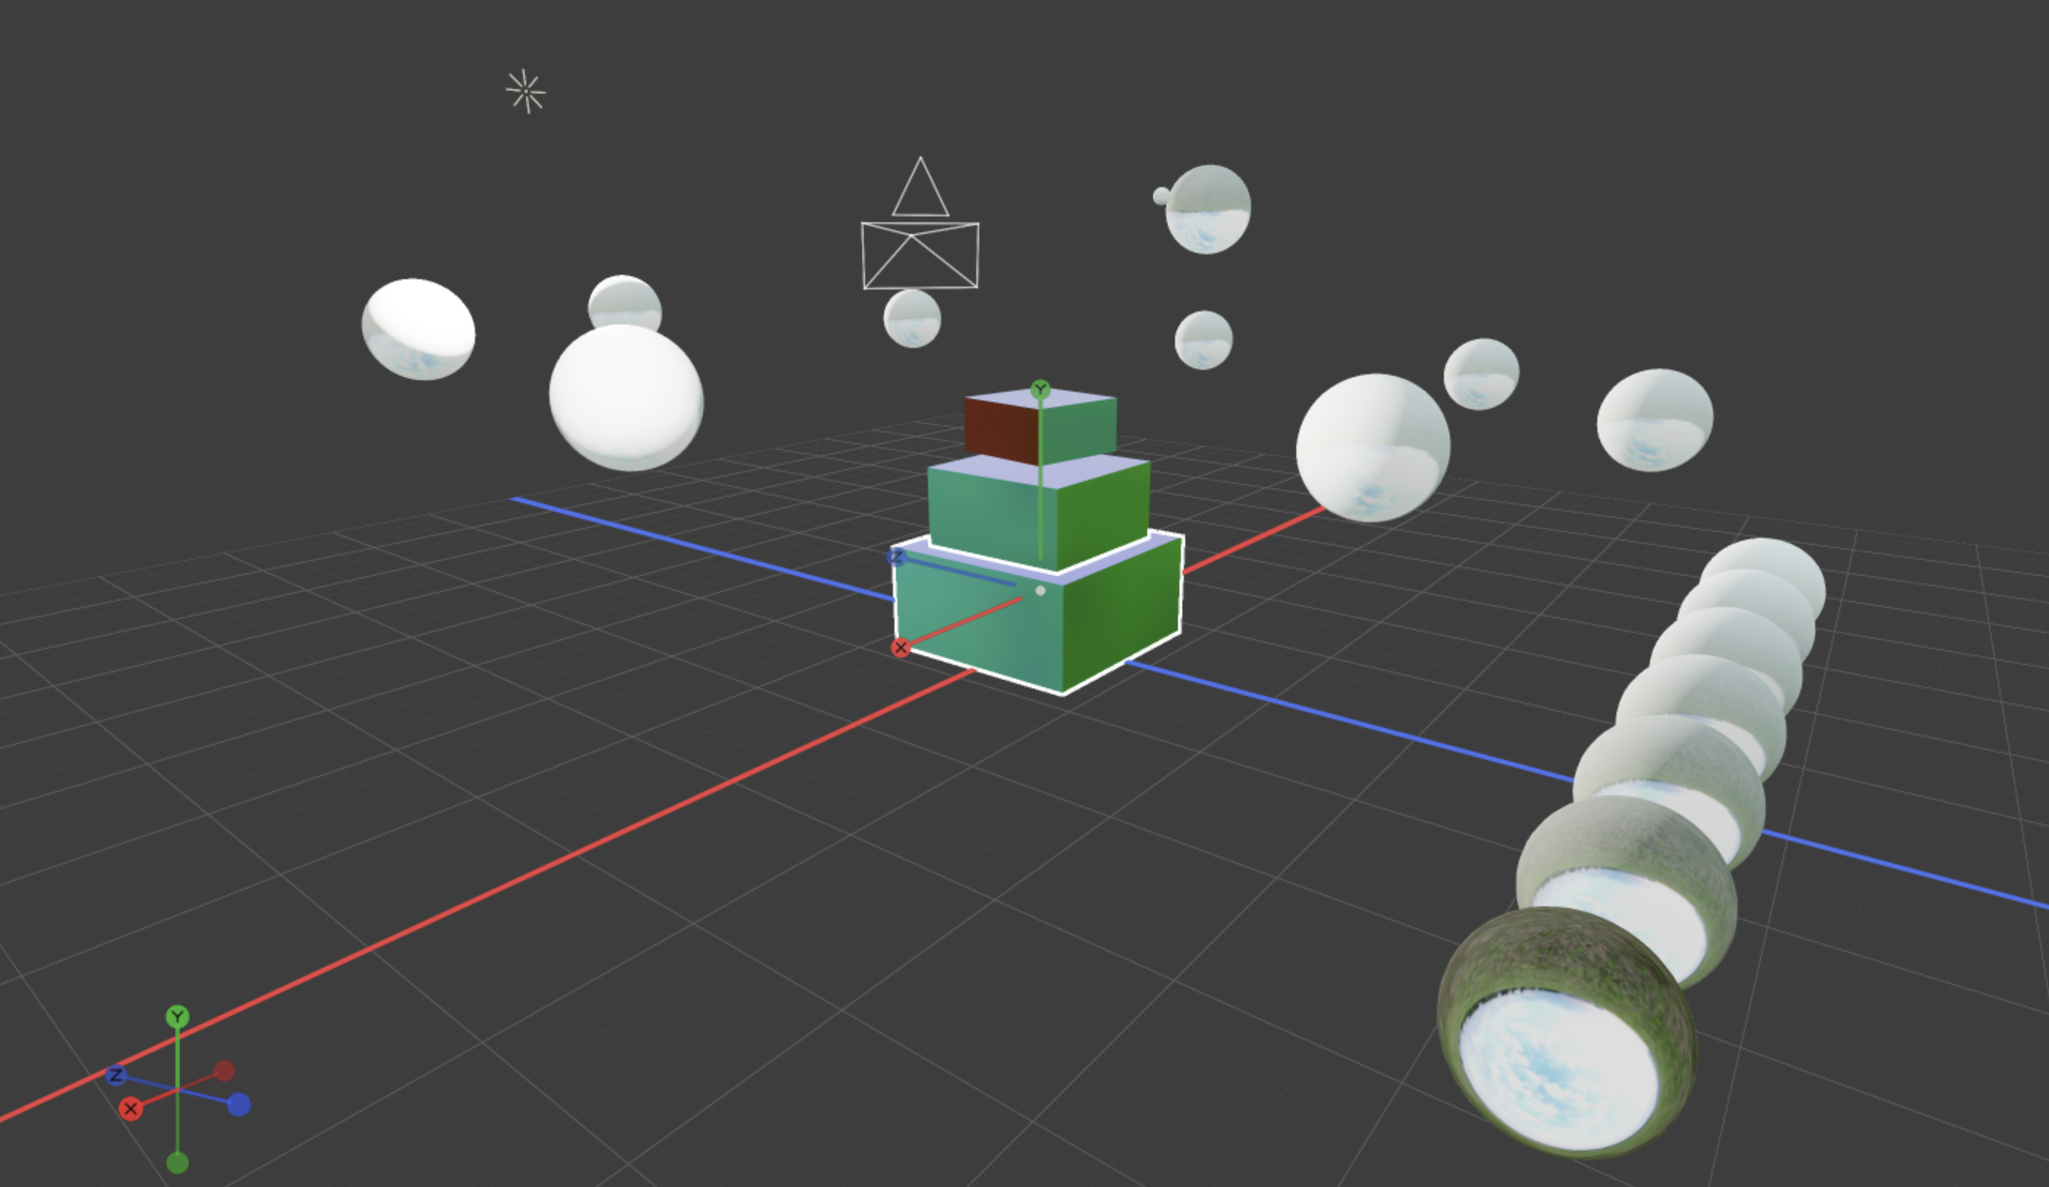
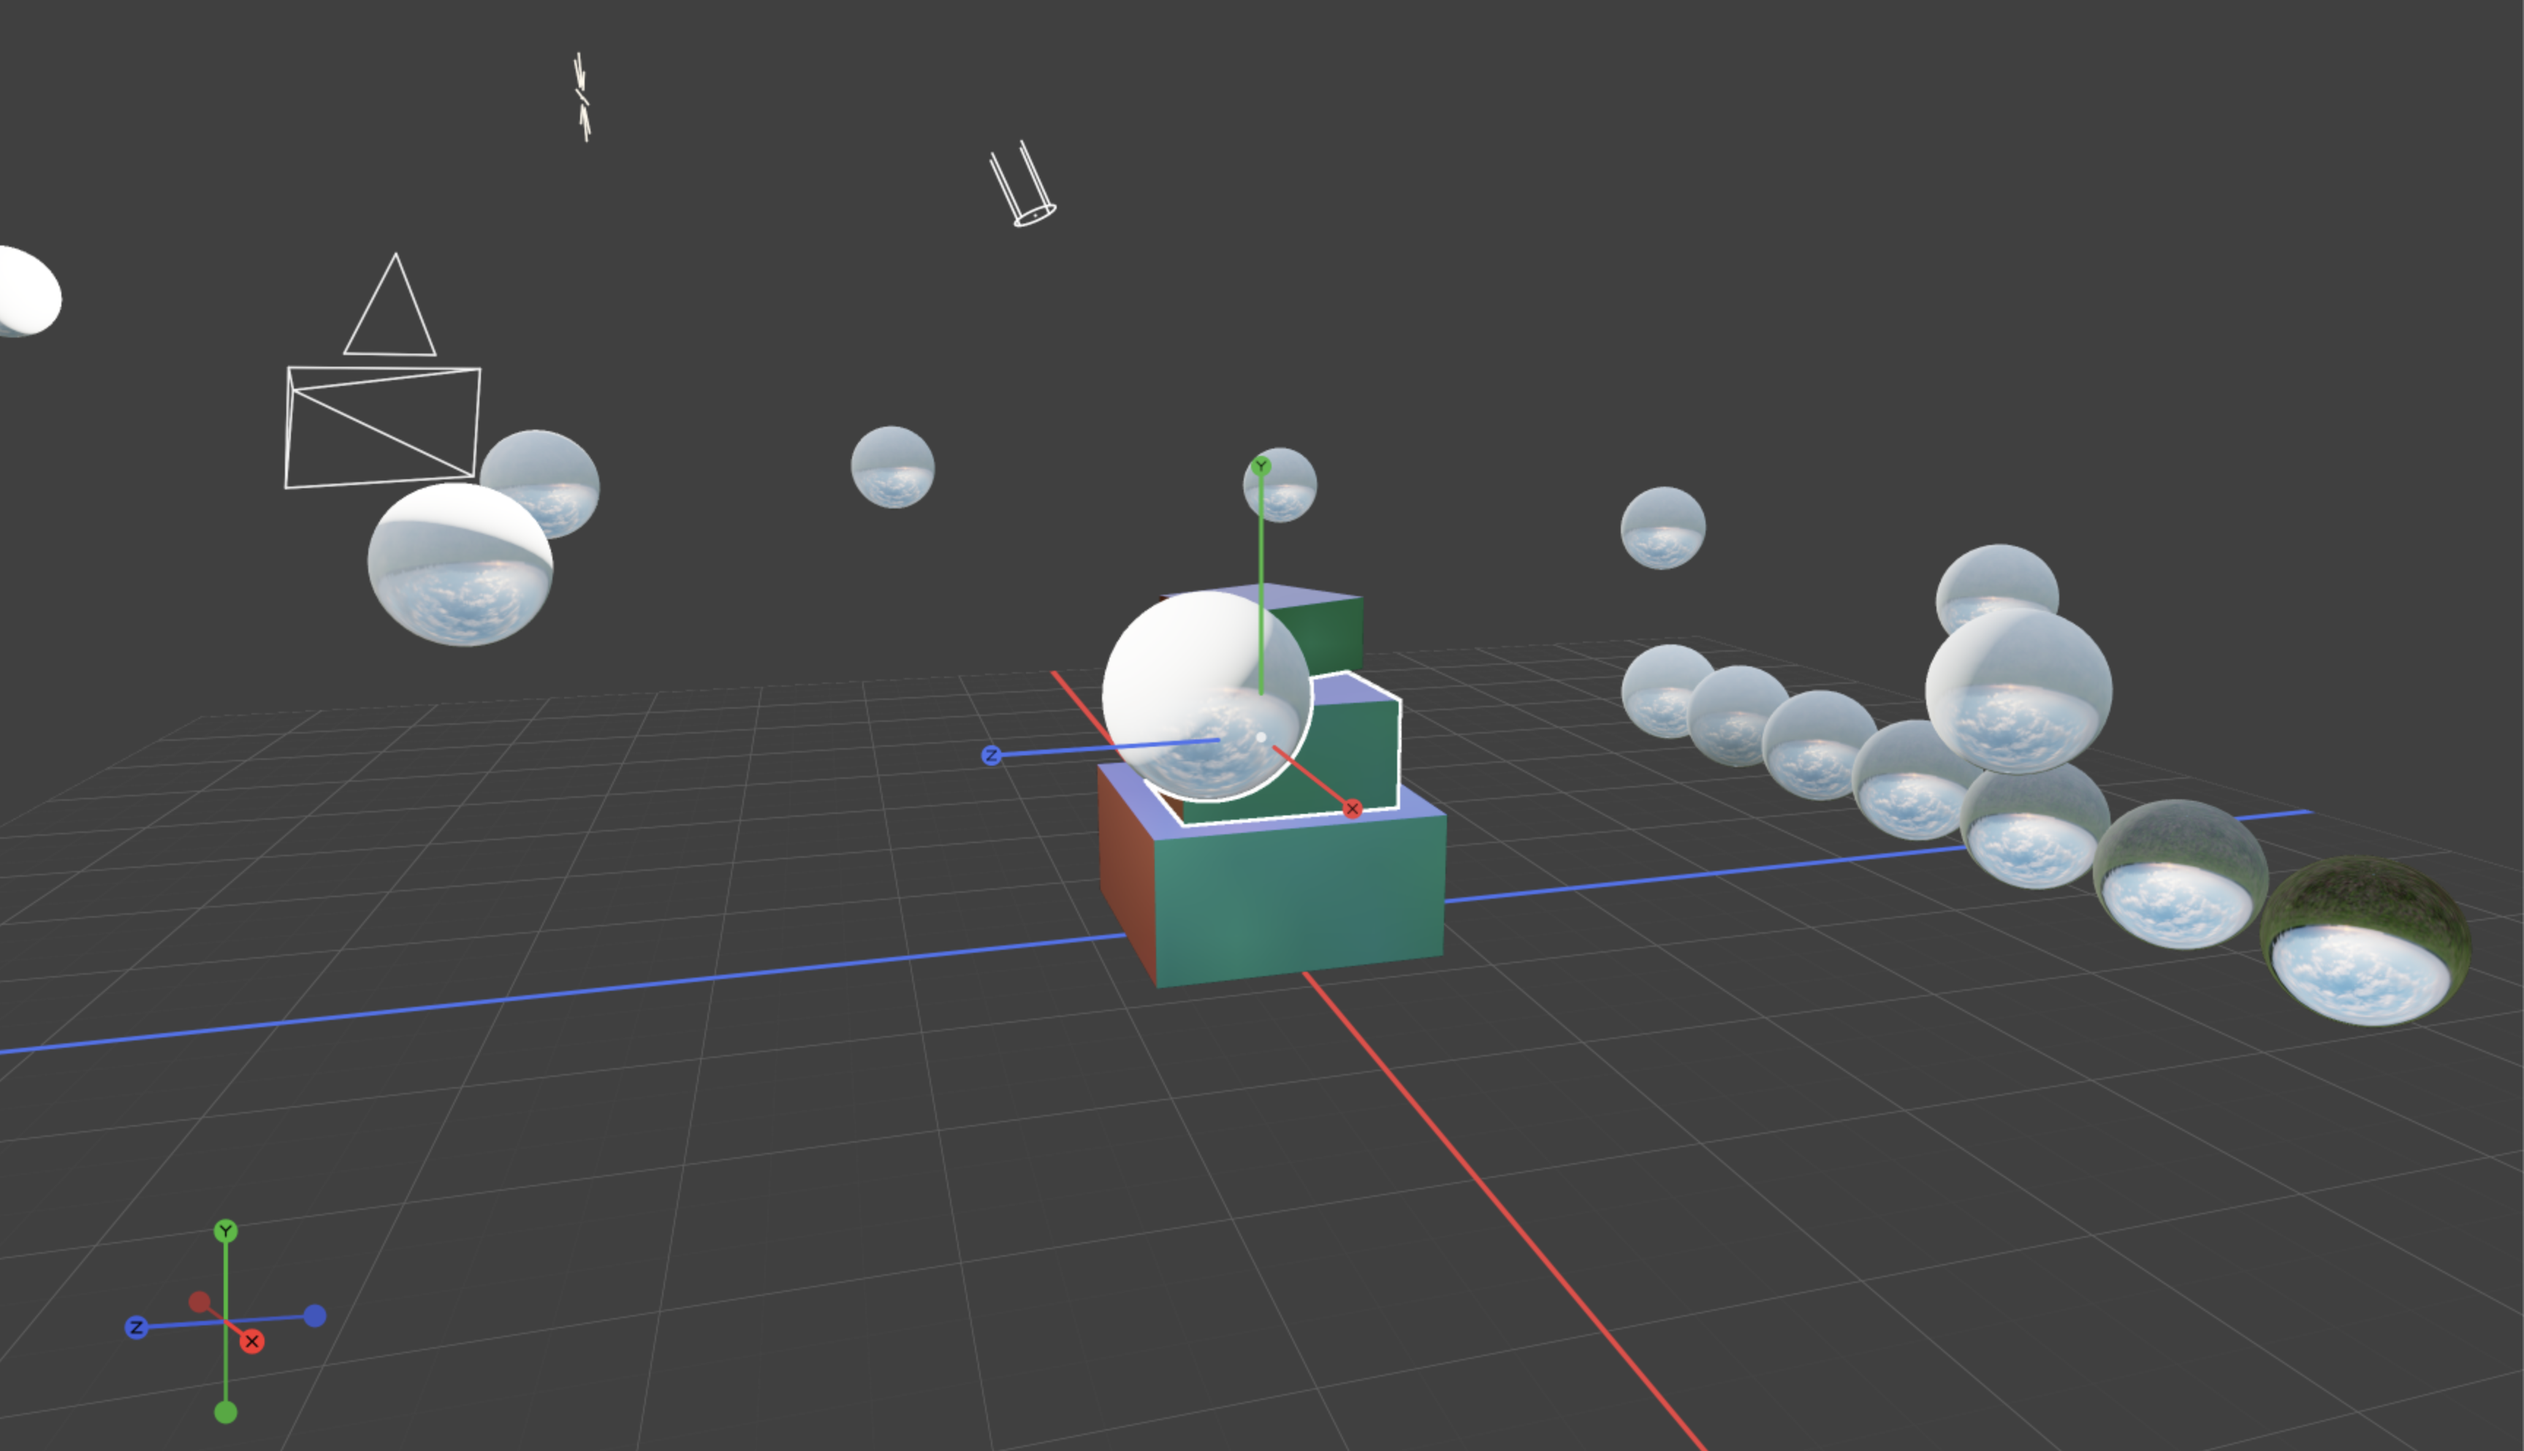
[HDR] .exr

diff --git a/examples/interactive.c b/examples/interactive.c
@@ -477,7 +477,7 @@ int main(int argc, char *argv[]) {
       if (mop_viewport_set_environment(vp, &edesc)) {
         printf("[mop] HDRI loaded: %s\n", hdri);
         /* Show HDRI as skybox background */
-        mop_viewport_set_environment_background(vp, true);
+        mop_viewport_set_environment_background(vp, false);
         /* Sync with auto-exposure set by environment loader */
         sc.exposure = mop_viewport_get_exposure(vp);
       } else {
